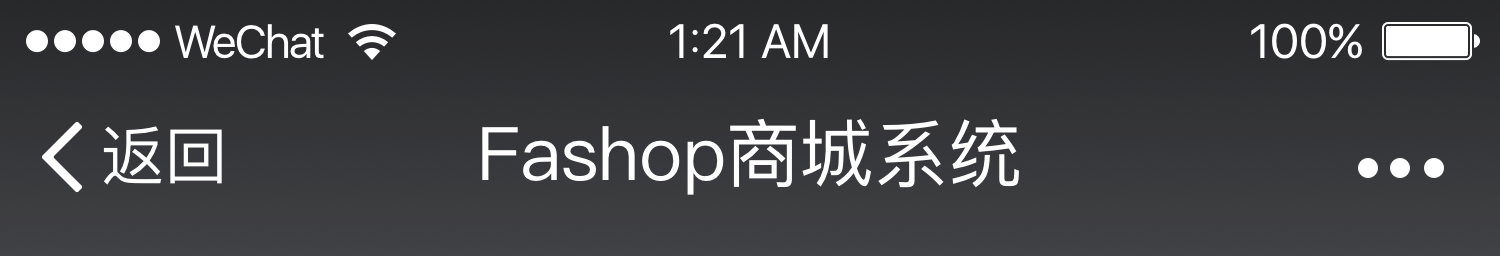
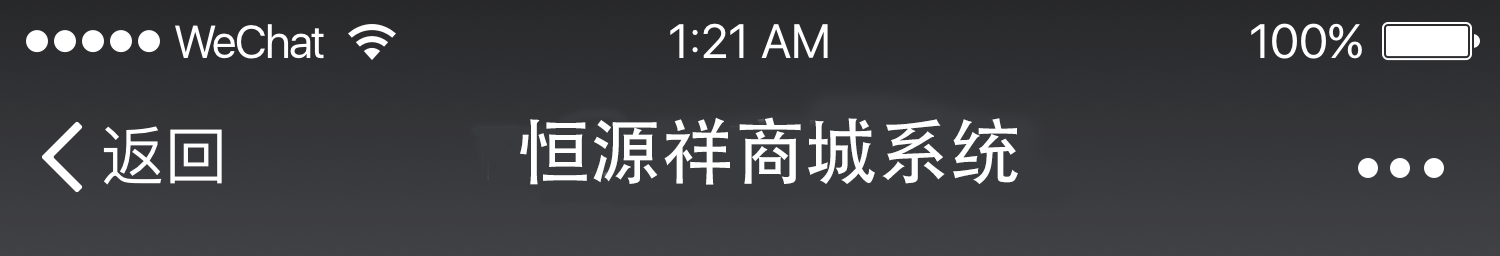
本地化

Changed region(s): [[0.3067, 0.4688, 0.7053, 0.75]]

diff --git a/src/components/wechat/material/article/table.js b/src/components/wechat/material/article/table.js
@@ -165,7 +165,7 @@ export default class ArticleTable extends Component<Props,State> {
                 <View className={styles.manyArticleTop}>
                     <View>
                         <Image
-                            src={`https://demo.fashop.cn/admin/mix/wechatImage?url=${listItem[0].thumb_url}`}
+                            src={`https://demo.iotiotiot.cn/admin/mix/wechatImage?url=${listItem[0].thumb_url}`}
                             style={{
                                 width: '100%'
                             }}
@@ -203,7 +203,7 @@ export default class ArticleTable extends Component<Props,State> {
                             <p>{childListItem.title}</p>
                             <View>
                                 <Image
-                                    src={`https://demo.fashop.cn/admin/mix/wechatImage?url=${childListItem.thumb_url}`}
+                                    src={`https://demo.iotiotiot.cn/admin/mix/wechatImage?url=${childListItem.thumb_url}`}
                                     style={{
                                         width: '100%'
                                     }}
@@ -245,7 +245,7 @@ export default class ArticleTable extends Component<Props,State> {
                 <p>{listItem[0].title}</p>
                 <View className={styles.singleArticleImgView}>
                     <Image
-                        src={`https://demo.fashop.cn/admin/mix/wechatImage?url=${listItem[0].thumb_url}`}
+                        src={`https://demo.iotiotiot.cn/admin/mix/wechatImage?url=${listItem[0].thumb_url}`}
                         style={{
                             width: '100%'
                         }}

diff --git a/src/components/shop/shopIndex/myTemplate.js b/src/components/shop/shopIndex/myTemplate.js
@@ -177,10 +177,10 @@ export default class MyTemplate extends Component<Props, State> {
                             <Input
                                 disabled
                                 style={{ width: 276 }}
-                                value="http://www.fashop.cn/wap"
+                                value="http://47.107.139.33/wap"
                             />
                             <CopyToClipboard
-                                text="http://www.fashop.cn/wap"
+                                text="http://47.107.139.33/wap"
                                 onCopy={() => message.success('复制成功！', 1)}
                             >
                                 <Button>复制</Button>
@@ -193,10 +193,10 @@ export default class MyTemplate extends Component<Props, State> {
                     <Input
                         disabled
                         style={{ width: 276 }}
-                        value="http://www.fashop.cn/page/1002dassd"
+                        value="http://47.107.139.33/page/1002dassd"
                     />
                     <CopyToClipboard
-                        text="http://www.fashop.cn/page/1002dassd"
+                        text="http://47.107.139.33/page/1002dassd"
                         onCopy={() => message.success('复制成功！', 1)}
                     >
                         <Button>复制</Button>

diff --git a/src/components/pageIndex/charts.js b/src/components/pageIndex/charts.js
@@ -64,16 +64,18 @@ export default class Charts extends Component<{},
                     api: StatisticsApi.monthSalesHistogram,
                     params: { date }
                 })
-                list = e.result.list
-                this.setState({
-                    monthSaleChartList: list,
-                    xAxisData: list.map((item) => {
-                        return `${item.day}日`
-                    }),
-                    yAxisData: list.map((item) => {
-                        return item.sale_number
+                if(e.result.list){
+                    list = e.result.list
+                    this.setState({
+                        monthSaleChartList: list,
+                        xAxisData: list.map((item) => {
+                            return `${item.day}日`
+                        }),
+                        yAxisData: list.map((item) => {
+                            return item.sale_number
+                        })
                     })
-                })
+                }
                 break
             case '月订单量':
                 e = await Fetch.fetch({

diff --git a/public/index.html b/public/index.html
@@ -5,16 +5,15 @@
     <meta http-equiv="X-UA-Compatible" content="IE=edge,chrome=1" />
     <meta name="renderer" content="webkit" />
     <meta name="viewport" content="width=device-width, initial-scale=1, shrink-to-fit=no">
-    <title>FaShop 商城系统 - Power By FaShop ( www.fashop.cn )</title>
-    <meta name="keywords" content="FaShop,开源商城系统,开源商城小程序,开源商城APP">
-    <meta name="description" content="FaShop是魔际（天津）科技有限公司(www.fashop.cn)开发。">
+    <title>恒源祥 商城系统 - Power By CM ( hyx.iotiotio.cn )</title>
+    <meta name="keywords" content="恒源祥,家纺,贵州,连锁">
     <link rel="manifest" href="/manifest.json">
     <link rel="shortcut icon" href="/favicon.ico">
 </head>
 <body>
 <script>
     window.fashop = {
-        apiHost: 'http://127.0.0.1:9510',
+        apiHost: 'http://47.107.139.33:9510',
         historyPrefix:'/',
     }
 </script>

diff --git a/src/components/index/layout/footer.js b/src/components/index/layout/footer.js
@@ -15,13 +15,6 @@ export default class LayoutFooter extends Component<{}, {}> {
             <Footer>
                 <Row>
                     <Col span={8}>
-                        <img
-                            src={'/logo-black.png'}
-                            alt=""
-                            style={{
-                                width: 68
-                            }}
-                        />
                     </Col>
                     <Col span={8}>
                         <p
@@ -31,7 +24,7 @@ export default class LayoutFooter extends Component<{}, {}> {
                                 color:'#999'
                             }}
                         >
-                            Powered by FaShop ( www.fashop.cn )
+                            Powered by CM ( www.iotiotiot.cn )
                         </p>
                     </Col>
                     <Col span={8} />

diff --git a/src/components/public/wechatModal/newsModal/localNewsView.js b/src/components/public/wechatModal/newsModal/localNewsView.js
@@ -106,7 +106,7 @@ export default class LocalNewsView extends Component<Props,State> {
                                                 <p>{item.media[0].title}</p>
                                                 <View className={styles.imgView}>
                                                     <Image
-                                                        src={`https://demo.fashop.cn/admin/mix/wechatImage?url=${item.media[0].cover_pic}`}
+                                                        src={`https://demo.iotiotiot.cn/admin/mix/wechatImage?url=${item.media[0].cover_pic}`}
                                                         style={{
                                                             width: '100%'
                                                         }}

diff --git a/src/pages/wechat/editReply.js b/src/pages/wechat/editReply.js
@@ -347,7 +347,7 @@ export default class EditReply extends Component<Props,State> {
                                             <View>
                                                 <Image
                                                     style={{width: 98,marginBottom:24}}
-                                                    src={`https://demo.fashop.cn/admin/mix/wechatImage?url=${replyItem.extra.url}`}
+                                                    src={`https://demo.iotiotiot.cn/admin/mix/wechatImage?url=${replyItem.extra.url}`}
                                                 />
                                             </View> :
                                             replyItem.type==='news' ?

diff --git a/src/pages/wechat/addReply.js b/src/pages/wechat/addReply.js
@@ -337,7 +337,7 @@ export default class AddReply extends Component<Props,State> {
                                             <View>
                                                 <Image
                                                     style={{width: 98,marginBottom:24}}
-                                                    src={`https://demo.fashop.cn/admin/mix/wechatImage?url=${replyItem.extra.url}`}
+                                                    src={`https://demo.iotiotiot.cn/admin/mix/wechatImage?url=${replyItem.extra.url}`}
                                                 />
                                             </View> :
                                             replyItem.type==='news' ?

diff --git a/src/components/wechat/material/image/table.js b/src/components/wechat/material/image/table.js
@@ -63,7 +63,7 @@ export default class ImageTable extends React.Component<Props,State> {
                                     </p>
                                     <View className={styles.imgView} id={`${index}`}>
                                         <Image
-                                            src={`https://demo.fashop.cn/admin/mix/wechatImage?url=${imageitem.url}`}
+                                            src={`https://demo.iotiotiot.cn/admin/mix/wechatImage?url=${imageitem.url}`}
                                             style={{
                                                 width:'100%'
                                             }}

diff --git a/src/pages/config/configTestData.js b/src/pages/config/configTestData.js
@@ -6,17 +6,17 @@ export const data = [
             {
                 id: 0,
                 title: '网站标题',
-                value: '晋皇商城',
+                value: '恒源祥商城',
                 type: 'string',
             },{
                 id: 1,
                 title: '网站描述',
-                value: '晋皇小米',
+                value: '恒源祥',
                 type: 'text',
             },{
                 id: 2,
                 title: '客服电话',
-                value: 4006665233,
+                value: 4000000000,
                 type: 'number',
             },
         ]

diff --git a/src/pages/setting/smsRemind.js b/src/pages/setting/smsRemind.js
@@ -99,7 +99,7 @@ export default class SmsRemind extends Component{
                         {...formItemLayout}
                         label="阿里云短信"
                         >
-                            <span className="ant-form-text"><a href="https://help.aliyun.com/document_detail/55327.html?from=fashop">立即申请</a></span>
+                            <span className="ant-form-text"><a href="https://help.aliyun.com/document_detail/55327.html">立即申请</a></span>
                         </FormItem>
                         <FormItem
                         label="Access KeyID"

diff --git a/src/components/pageIndex/systemInfo.js b/src/components/pageIndex/systemInfo.js
@@ -22,7 +22,7 @@ import styles from './index.css'
                    <Col span={4}>服务器操作系统</Col>
                    <Col span={8}>LinuxiZ2ze36ko76auog28w4oskZ3.10.0-514.10.2.el7.x86_64</Col>
                    <Col span={4}>服务器域名／IP</Col>
-                   <Col span={8}>fashop.chitj.com:80 [47.93.124.60]</Col>
+                   <Col span={8}>iotiotiot.chitj.com:80 [47.93.124.60]</Col>
                </Row>
                <Row className={styles.systemInfoRow}>
                    <Col span={4}>服务器环境</Col>
